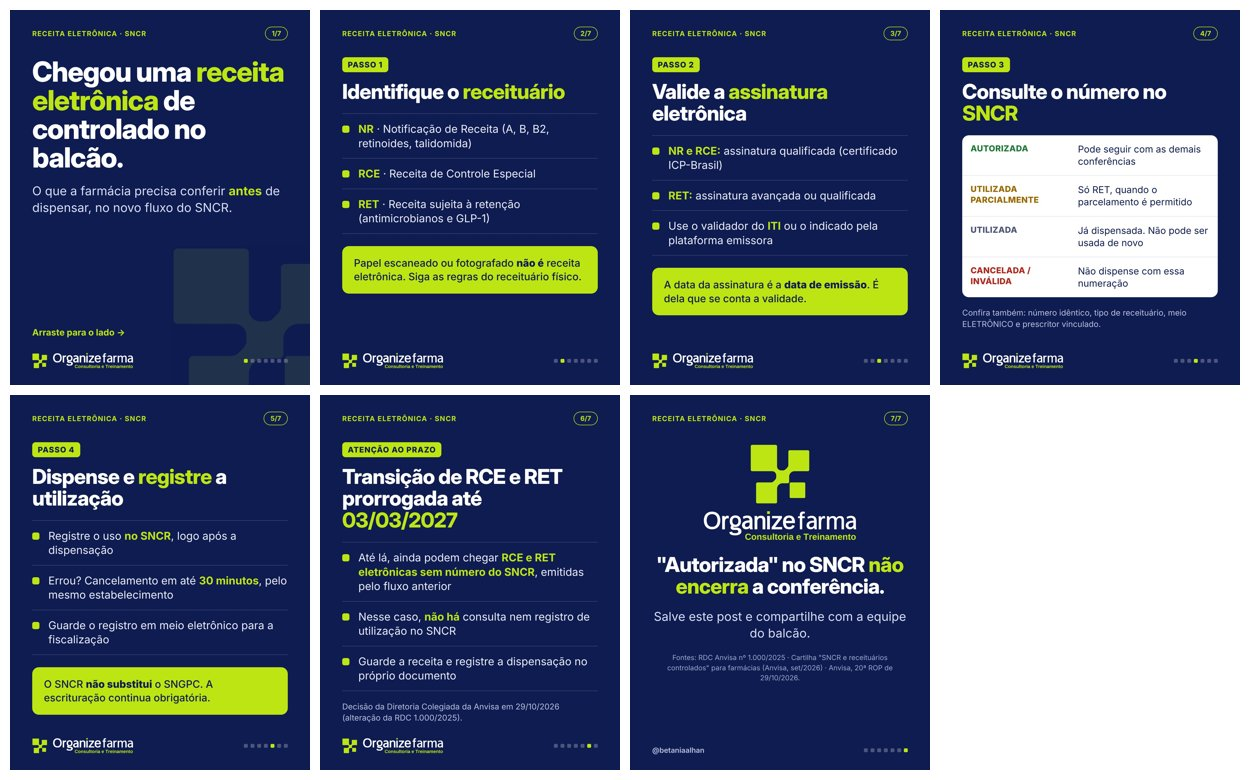
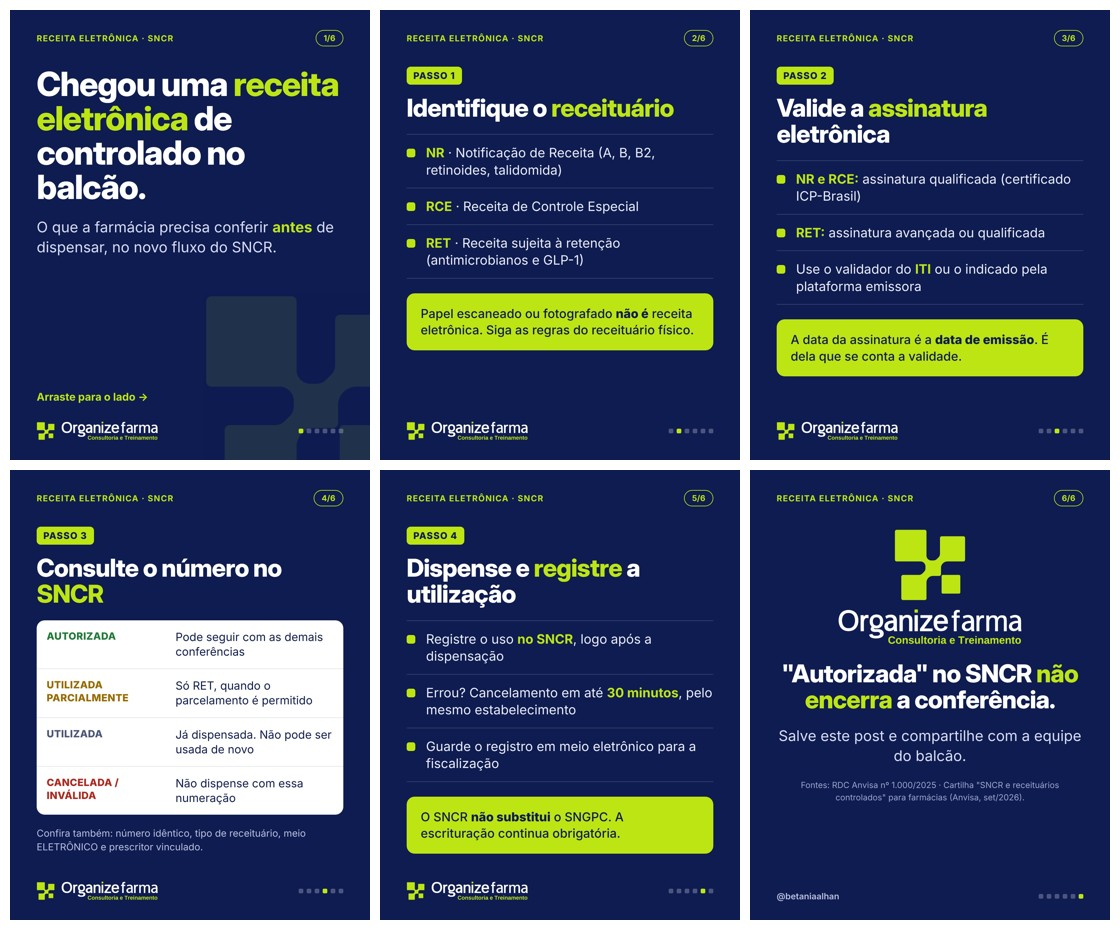
Carrossel SNCR: remove card da prorrogação (já publicado em post anterior)
Claude-Session: https://claude.ai/code/session_01N47aHqgMP94WGAK7vQGjyB

diff --git a/fonte/sncr-carrossel/gerar.py b/fonte/sncr-carrossel/gerar.py
@@ -110,20 +110,11 @@ SLIDES = [
 <li>Guarde o registro em meio eletrônico para a fiscalização</li>
 </ul>
 <div class="alerta">O SNCR <b>não substitui</b> o SNGPC. A escrituração continua obrigatória.</div>"""),
-    ("", """
-<div class="passo">Atenção ao prazo</div>
-<h2>Transição de RCE e RET prorrogada até <em>03/03/2027</em></h2>
-<ul>
-<li>Até lá, ainda podem chegar <b>RCE e RET eletrônicas sem número do SNCR</b>, emitidas pelo fluxo anterior</li>
-<li>Nesse caso, <b>não há</b> consulta nem registro de utilização no SNCR</li>
-<li>Guarde a receita e registre a dispensação no próprio documento</li>
-</ul>
-<p class="nota">Decisão da Diretoria Colegiada da Anvisa em 29/10/2026 (alteração da RDC 1.000/2025).</p>"""),
     ("final", """
 <img class="logo-final" src="{LOGO}">
 <h2 class="centro">"Autorizada" no SNCR <em>não encerra</em> a conferência.</h2>
 <p class="lead centro">Salve este post e compartilhe com a equipe do balcão.</p>
-<p class="fonte centro">Fontes: RDC Anvisa nº 1.000/2025 · Cartilha "SNCR e receituários controlados" para farmácias (Anvisa, set/2026) · Anvisa, 20ª ROP de 29/10/2026.</p>"""),
+<p class="fonte centro">Fontes: RDC Anvisa nº 1.000/2025 · Cartilha "SNCR e receituários controlados" para farmácias (Anvisa, set/2026).</p>"""),
 ]
 TOTAL = len(SLIDES)
 
